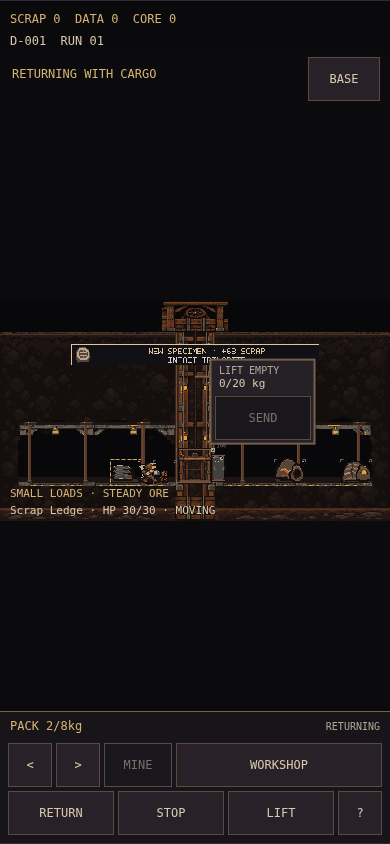
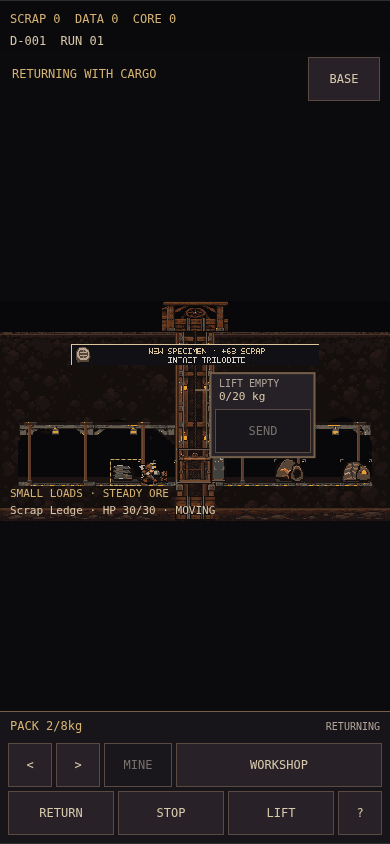
fix: keep the shipping cabinet clear of appraisal results

Changed region(s): [[0.5231, 0.4005, 0.8308, 0.5545]]

diff --git a/src/render/gameUi.ts b/src/render/gameUi.ts
@@ -73,7 +73,10 @@ export function layoutGameUi(state: GameState, elevator: ElevatorUiState | null,
       y: h - (compact ? 100 : 52) + row * 48, width: rowWidths[index]!, height: 44 });
   });
   buttons.push({ id: 'send', label: 'SEND', text: 'SEND', action: { type: 'command', command: { type: 'send' } },
-    x: Math.min(w - 106, world.x + world.width * .55), y: world.y + world.height * .43, width: 96, height: 44, disabled: !canDispatchElevator(state) });
+    x: Math.min(w - 106, world.x + world.width * .55),
+    // The fixed-size cabinet must stay below the scene's notification strip when the world is scaled down.
+    y: Math.max(world.y + world.height * .43, world.y + world.height * .30 + 42),
+    width: 96, height: 44, disabled: !canDispatchElevator(state) });
   const guide = workshopGuide(state);
   if (guide) buttons.push({ id: 'goal', label: 'Inspect next workshop upgrade', text: guide.label, action: { type: 'open' },
     x: 10, y: compact ? 56 : 46, width: Math.min(w - 100, 420), height: 44, selected: guide.ready });

diff --git a/tests/elevatorUi.test.ts b/tests/elevatorUi.test.ts
@@ -152,6 +152,9 @@ describe('Canvas HUD and lift geometry', () => {
     const windows = [null, ...(['dispatch', 'travel', 'extend'] as const).map((tab) => windowState(state, tab))];
     for (const ui of windows) {
       const layout = layoutGameUi(state, ui, false, viewport);
+      const send = layout.buttons.find((button) => button.id === 'send');
+      // Regression: the fixed-height shipping cabinet covered appraisal text on narrow screens.
+      if (send) expect(send.y - 36).toBeGreaterThan(viewport.world.y + viewport.world.height * .30);
       for (const b of layout.buttons) {
         expect(b.x).toBeGreaterThanOrEqual(0); expect(b.y).toBeGreaterThanOrEqual(0);
         expect(b.x + b.width).toBeLessThanOrEqual(width); expect(b.y + b.height).toBeLessThanOrEqual(viewport.height);
